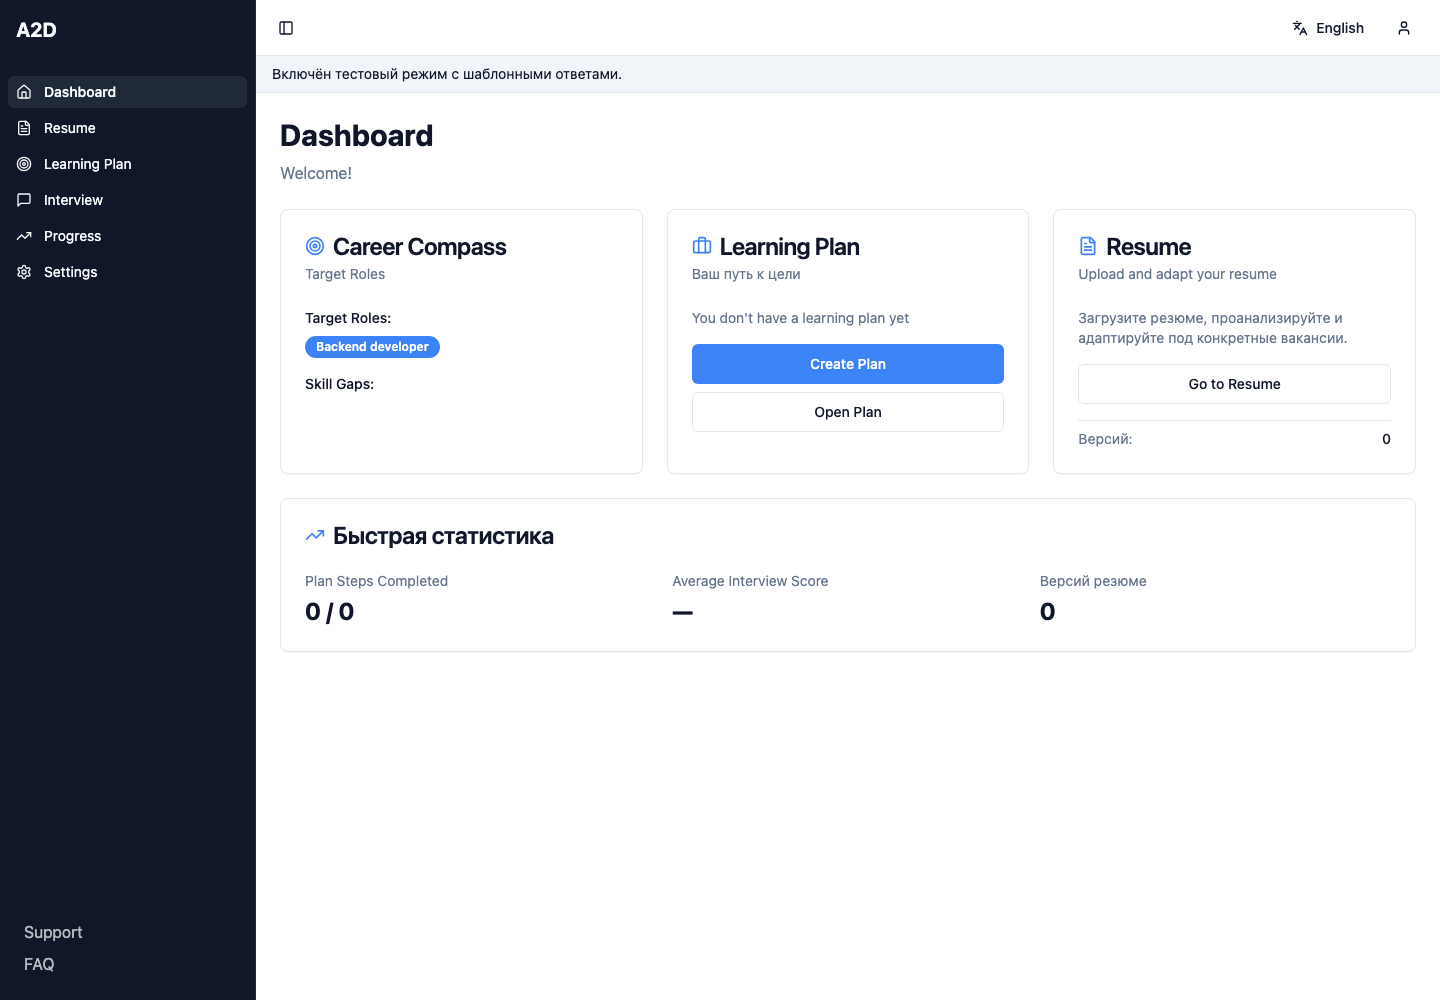
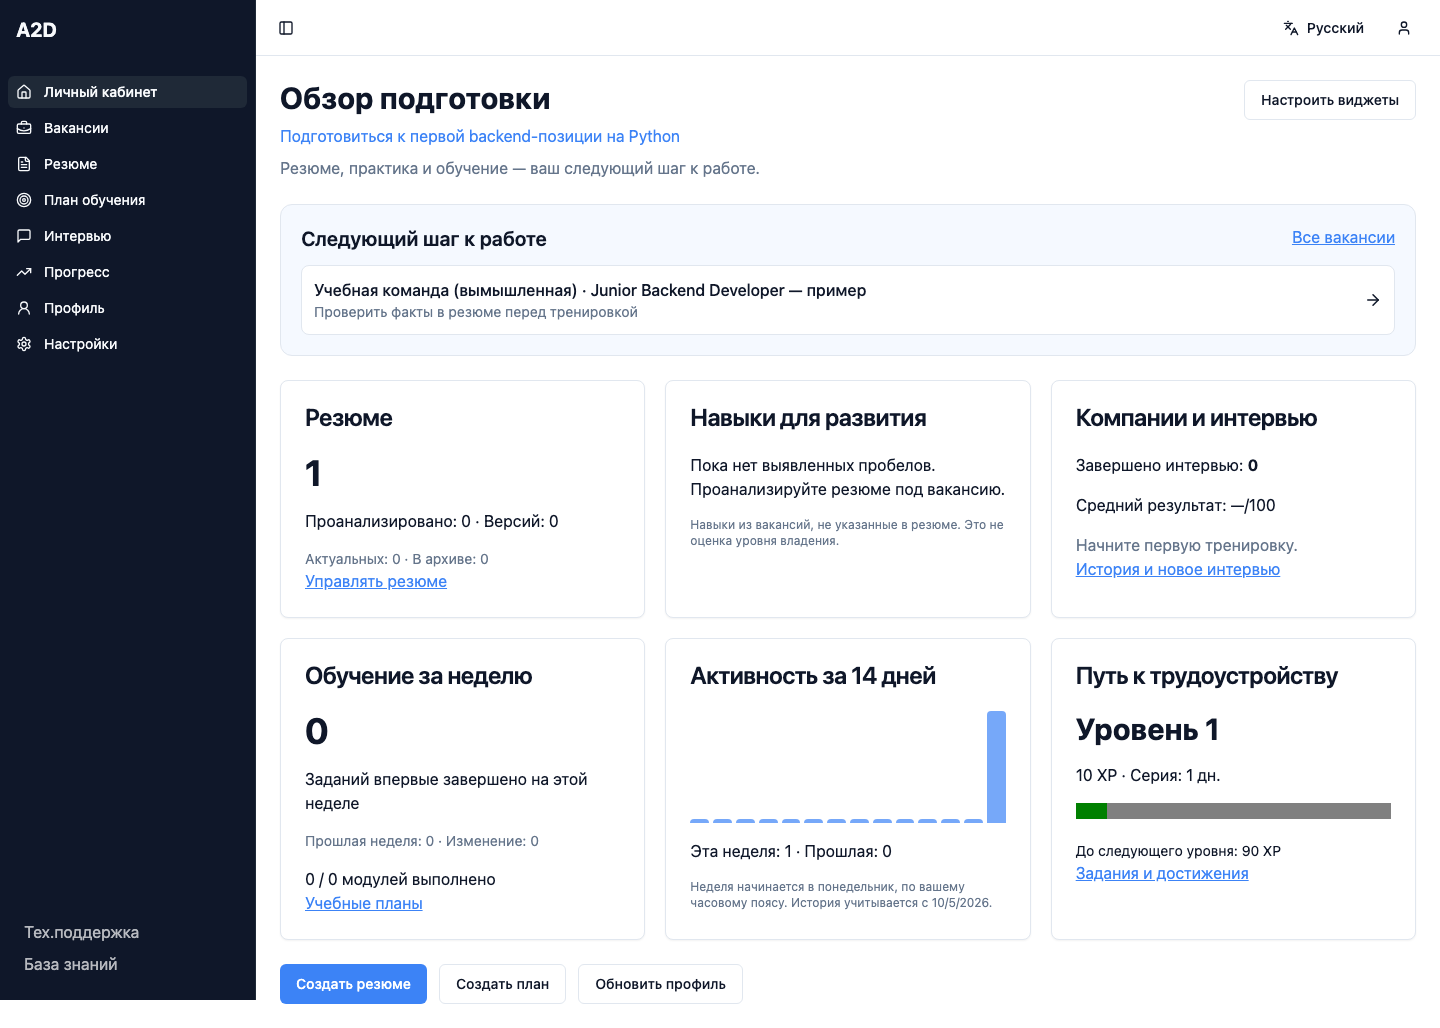
Polish resume exports and refresh portfolio presentation screenshots

diff --git a/app/infrastructure/documents.py b/app/infrastructure/documents.py
@@ -79,6 +79,64 @@ FONT_PATH = Path(__file__).parents[1] / "assets" / "NotoSans-Regular.ttf"
 pdfmetrics.registerFont(TTFont("CareerSans", str(FONT_PATH)))
 
 
+def resume_sections(fields):
+    """Readable, ordered blocks shared by PDF and Word (never dictionary dumps)."""
+    sections = []
+    for title, key in [
+        ("Profile", "summary"),
+        ("Skills", "skills"),
+        ("Experience", "experience"),
+        ("Education", "education"),
+        ("Projects", "projects"),
+        ("Certificates", "certificates"),
+        ("Languages", "languages"),
+    ]:
+        value = getattr(fields, key)
+        if not value:
+            continue
+        blocks = []
+        if key == "skills":
+            blocks = [" · ".join(value)]
+        elif isinstance(value, str):
+            blocks = [line for line in value.splitlines() if line.strip()]
+        else:
+            for entry in value:
+                if key == "experience":
+                    lines = [
+                        " · ".join(v for v in [entry.get("role"), entry.get("company")] if v),
+                        " · ".join(
+                            v
+                            for v in [
+                                " — ".join(
+                                    str(v)
+                                    for v in [entry.get("date_from"), entry.get("date_to")]
+                                    if v
+                                ),
+                                entry.get("location"),
+                            ]
+                            if v
+                        ),
+                        entry.get("responsibilities", ""),
+                        *["• " + item for item in entry.get("achievements", [])],
+                    ]
+                elif key == "education":
+                    lines = [
+                        " · ".join(v for v in [entry.get("degree"), entry.get("institution")] if v),
+                        " — ".join(
+                            str(v) for v in [entry.get("year_start"), entry.get("year_end")] if v
+                        ),
+                    ]
+                else:
+                    lines = [
+                        entry.get("title", ""),
+                        entry.get("description", ""),
+                        " · ".join(entry.get("tech", [])),
+                    ]
+                blocks.append("\n".join(line for line in lines if line))
+        sections.append((title, blocks))
+    return sections
+
+
 def render_pdf(fields, template="modern"):
     accent = {"modern": "#08766f", "classic": "#243943", "minimalist": "#333333"}[template]
     output = io.BytesIO()
@@ -127,29 +185,10 @@ def render_pdf(fields, template="modern"):
     contact = " · ".join(v for v in [fields.phone, fields.location] if v)
     if contact:
         story.append(paragraph(contact))
-    sections = [
-        ("Profile", fields.summary),
-        ("Skills", " · ".join(fields.skills)),
-        ("Experience & projects", fields.experience),
-        ("Education", fields.education),
-        ("Projects", fields.projects),
-        ("Certificates", fields.certificates),
-        ("Languages", fields.languages),
-    ]
-    for title, value in sections:
-        if value:
-            story.append(paragraph(title, "CareerSection"))
-            # Split long user text into flowable paragraphs to allow page breaks.
-            if isinstance(value, list):
-                value = "\n\n".join(
-                    "\n".join(
-                        ", ".join(str(v) for v in item) if isinstance(item, list) else str(item)
-                        for item in row.values()
-                        if item
-                    )
-                    for row in value
-                )
-            for line in value.splitlines():
+    for title, blocks in resume_sections(fields):
+        story.append(paragraph(title, "CareerSection"))
+        for block in blocks:
+            for line in block.splitlines():
                 if line.strip():
                     story.append(paragraph(line))
             story.append(Spacer(1, 3))
@@ -244,32 +283,19 @@ class Documents:
         document.add_paragraph(
             " · ".join(v for v in [fields.email, fields.phone, fields.location] if v)
         )
-        for title, key in [
-            ("Profile", "summary"),
-            ("Skills", "skills"),
-            ("Experience", "experience"),
-            ("Education", "education"),
-            ("Projects", "projects"),
-            ("Certificates", "certificates"),
-            ("Languages", "languages"),
-        ]:
-            value = getattr(fields, key)
-            if not value:
-                continue
+        from docx.shared import Inches, Pt
+
+        section = document.sections[0]
+        section.top_margin = section.bottom_margin = Inches(0.65)
+        section.left_margin = section.right_margin = Inches(0.7)
+        normal = document.styles["Normal"]
+        normal.font.name = "Calibri"
+        normal.font.size = Pt(11)
+        normal.paragraph_format.space_after = Pt(6)
+        for title, blocks in resume_sections(fields):
             document.add_heading(title, 1)
-            if isinstance(value, list):
-                for item in value:
-                    if isinstance(item, dict):
-                        for v in item.values():
-                            if isinstance(v, list):
-                                for entry in v:
-                                    document.add_paragraph(str(entry), style="List Bullet")
-                            elif v:
-                                document.add_paragraph(str(v))
-                    else:
-                        document.add_paragraph(str(item), style="List Bullet")
-            else:
-                document.add_paragraph(value)
+            for block in blocks:
+                document.add_paragraph(block)
         output = io.BytesIO()
         document.save(output)
         return output.getvalue()

diff --git a/tests/test_release.py b/tests/test_release.py
@@ -263,3 +263,53 @@ def test_failed_atomic_apply_rolls_back_resume_versions_and_assessment(client, a
     assert client.get(path).json()["fields"]["summary"] == ""
     assert client.get(path + "/versions").json() == []
     assert len(client.get(path + "/assessment").json()["improvements"]) == 1
+
+
+def test_resume_exports_group_dates_and_omit_unknown_years():
+    import io
+
+    from docx import Document
+    from pypdf import PdfReader
+
+    from app.domain.models import ResumeFields
+    from app.infrastructure.documents import Documents
+
+    fields = ResumeFields(
+        full_name="Demo Candidate",
+        position="Engineer",
+        education=[
+            {
+                "institution": "University",
+                "degree": "Computer Science",
+                "year_start": 2022,
+                "year_end": 0,
+            }
+        ],
+        experience=[
+            {
+                "company": "Library",
+                "role": "Developer",
+                "date_from": "2024-01",
+                "date_to": "present",
+                "location": "Remote",
+                "responsibilities": "Build APIs",
+                "achievements": ["Delivered a documented API"],
+            }
+        ],
+        projects=[
+            {
+                "title": "Books",
+                "description": "A personal project",
+                "tech": ["Python", "PostgreSQL"],
+            }
+        ],
+    )
+    pdf = "\n".join(p.extract_text() for p in PdfReader(io.BytesIO(Documents().pdf(fields))).pages)
+    word = "\n".join(p.text for p in Document(io.BytesIO(Documents().docx(fields))).paragraphs)
+    for output in [pdf, word]:
+        assert "Developer · Library" in output
+        assert "2024-01 — present · Remote" in output
+        assert "Computer Science · University" in output
+        assert "Python · PostgreSQL" in output
+        assert "2022 — 0" not in output
+        assert "year_start" not in output

diff --git a/docs/features.md b/docs/features.md
@@ -6,12 +6,12 @@ Reference: original backend commit `82c50c1` and the `skill-pathfinder-151` fron
 |---|---|---|
 | Email registration and login | Firebase frontend auth; auth/user routes | PostgreSQL accounts, salted scrypt, rotating Redis sessions; `/auth/register`, `/auth/login`, `/auth/logout` |
 | Google login | `Login.tsx`, Firebase `loginWithGoogle` | Optional Google Identity Services, verified ID tokens and one-use Redis nonce |
-| Onboarding/profile | `Onboarding.tsx`, `UserProfile` | Original onboarding form backed by a persistent profile; full profile fields are available through the API |
-| Skill normalization | Frontend trim/dedup | Trim/dedup in UI and validated backend fields |
-| Resume upload and AI extraction | Resume routes, Gemini PDF extraction | Bounded PDF/TXT upload; Gemini extraction when configured; local text extraction otherwise, with an explicit AI-unavailable notice |
+| Onboarding/profile | `Onboarding.tsx`, `UserProfile` | Structured experience, projects, education, contacts and skills in the UI; snapshot selected blocks into new resumes |
+| Skill normalization | Frontend trim/dedup | Shared PostgreSQL catalog, optional descriptions, normalized unique names and fuzzy suggestions |
+| Resume upload and AI extraction | Resume routes, Gemini PDF extraction | Drag-and-drop PDF/DOCX/TXT; structured OpenAI/Gemini extraction; explicit errors without cloud configuration, no silent heuristic fallback |
 | Edit and verify resume | Resume editor screens | Editable fields; revision-based saves |
-| Vacancy-specific adaptation | Gemini improvements with before/after/reason | Profile-aware rewrites, explicit accept/reject selection and saved version |
-| Resume generation/templates | Modern/classic/minimalist selector; HTML output bug | Actual Unicode PDF in three styles |
+| Vacancy-specific adaptation | Gemini improvements with before/after/reason | Profile-aware rewrites; explicit acceptance atomically saves before/after snapshots and the current resume |
+| Resume generation/templates | Modern/classic/minimalist selector; HTML output bug | Actual Unicode PDF in three styles plus editable DOCX, with readable structured sections |
 | Version history/diff/active version | Mock `ResumeVersions.tsx` | Persistent snapshots, before/after comparison, restore, PDF and deletion |
 | Interview setup | Company, job, stack, theoretical/practical/mixed | All inputs retained and used by coaching provider |
 | Interview questions | Gemini question generation | Generated questions and references stored server-side; future answers not disclosed |
@@ -20,20 +20,24 @@ Reference: original backend commit `82c50c1` and the `skill-pathfinder-151` fron
 | Plan completion | React-only checkbox state | Durable progress and optimistic concurrency; API supports evidence notes |
 | Plan export | Toast-only action | Real downloadable text artifact |
 | NotebookLM overview | Toast-only action | Export source + manual NotebookLM import; no false claim of automatic video generation |
-| Dashboard/progress | Fixed mock counters | Aggregated real saved work on Progress screen and connected navigation |
+| Dashboard/progress | Fixed mock counters | Configurable analytic widgets, weekly comparisons, activity, XP and vacancy-specific next actions |
 | Rewards | Mock availability/claim toast | Eligibility from records, persistent claims, duplicate protection |
 | EN/RU/KZ preferences | Original locale files and switcher | Persisted en/ru/kk preference, localized navigation/core controls, coaching language. Additional explanatory copy still needs translation. |
-| Audio interview mode | Setting toggle; STT service empty | Optional browser dictation, transcript review and text fallback; no claimed server transcription service |
-| FAQ/support/policies | Static screens | Original static pages retained; support delivery is not configured |
+| Audio interview mode | Setting toggle; STT service empty | Browser dictation plus OpenAI Realtime WebRTC mode, saved transcripts and final assessment; requires real provider configuration |
+| FAQ/support/policies | Static screens | Searchable knowledge base, administrator draft/preview/publish editor, factual policy and user-initiated GitHub support link |
 
 ## Behavior deliberately corrected
 
 - Generated HTML is no longer mislabeled as a PDF.
 - Interview answers are evaluated before the session advances; the last answer is retained.
 - Progress, versions and rewards come from stored user activity instead of sample numbers.
-- The default mode never supplies demo coaching. Explicit test mode is labelled; real coaching requires Gemini configuration.
+- The default mode never supplies demo coaching. Explicit test mode is labelled; real coaching requires OpenAI or Gemini configuration.
 - Provider suggestions require explicit user approval before becoming resume content.
 
 ## External prerequisites
 
-Live Gemini requires an API key/model; live Google sign-in requires a web client ID and allowed origin. Browser dictation depends on browser/provider support. NotebookLM import remains an external user action. Legacy Firebase users and Firestore/GCS records require a separate data migration; existing deployments are not redirected.
+Live OpenAI/Gemini requires an API key/model; voice also requires Realtime and transcription model IDs; live Google sign-in requires a web client ID and allowed origin. Browser dictation depends on browser/provider support. NotebookLM import remains an external user action. Legacy Firebase users and Firestore/GCS records require a separate data migration; existing deployments are not redirected.
+
+## Connected preparation release
+
+Saved vacancies now connect a selected resume, interview history and learning plans. Application stages, private notes and next-contact dates are editable. Accounts can export private data; password accounts support password changes with global session revocation and confirmed deletion. Public product introduction, reproducible manual demo data and presentation/operations guides are included.

diff --git a/README.md b/README.md
@@ -65,9 +65,9 @@ Then run `docker compose up --build --wait`. Never commit `.env`. The selected p
 
 Google login separately requires `CAREER_GOOGLE_CLIENT_ID` and an authorized web origin in Google Cloud. Email/password registration and login use PostgreSQL accounts and Redis sessions, and work independently without Google credentials. Leave `CAREER_GOOGLE_CLIENT_ID` empty to use only email/password; the Google button is hidden. Set it to enable Google alongside email/password. No accounts or saved data are deleted when changing providers. Passwords need at least 12 characters. Google ID tokens are verified server-side, with a single-use Redis nonce. Existing Firebase accounts are not automatically migrated.
 
-![Original React dashboard](docs/screenshots/studio.png)
+![Career preparation dashboard](docs/screenshots/studio.png)
 
-Screenshots use a fictional account in the explicitly labelled test environment: [resume editor](docs/screenshots/resume.png), [interview](docs/screenshots/interview.png), [plan](docs/screenshots/plan.png).
+Screenshots show a separate fictional account persisted in the local production configuration, with no fabricated AI scores: [vacancy workspace](docs/screenshots/vacancy.png), [resume editor](docs/screenshots/resume.png), [product introduction](docs/screenshots/landing.png). AI actions are unavailable until the server provider is configured.
 
 ## Workflows
 
